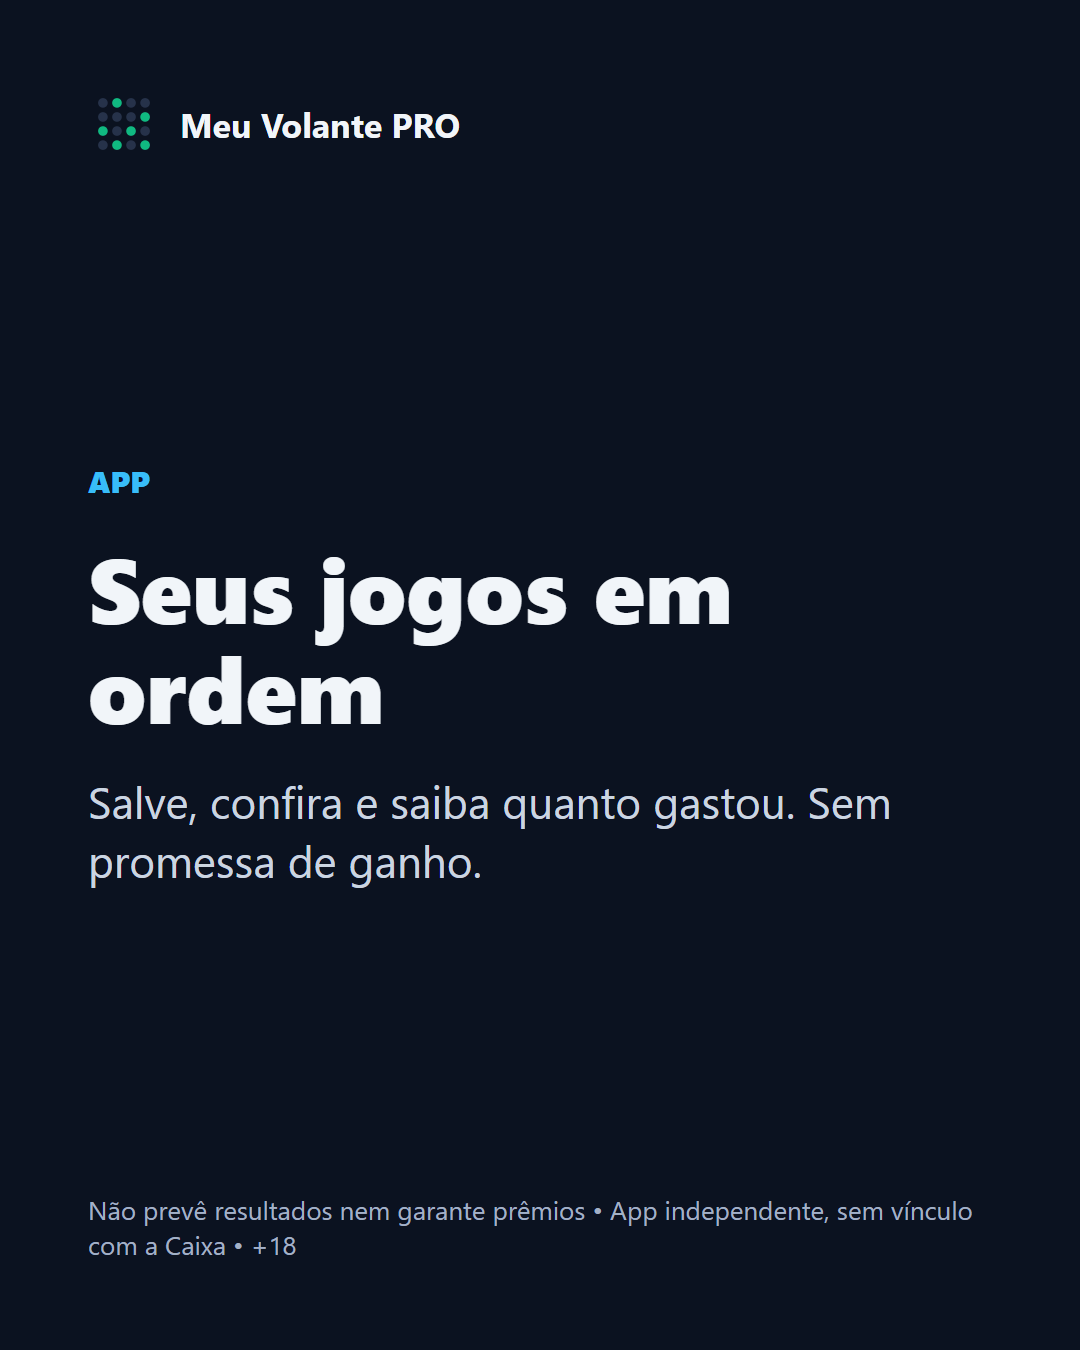
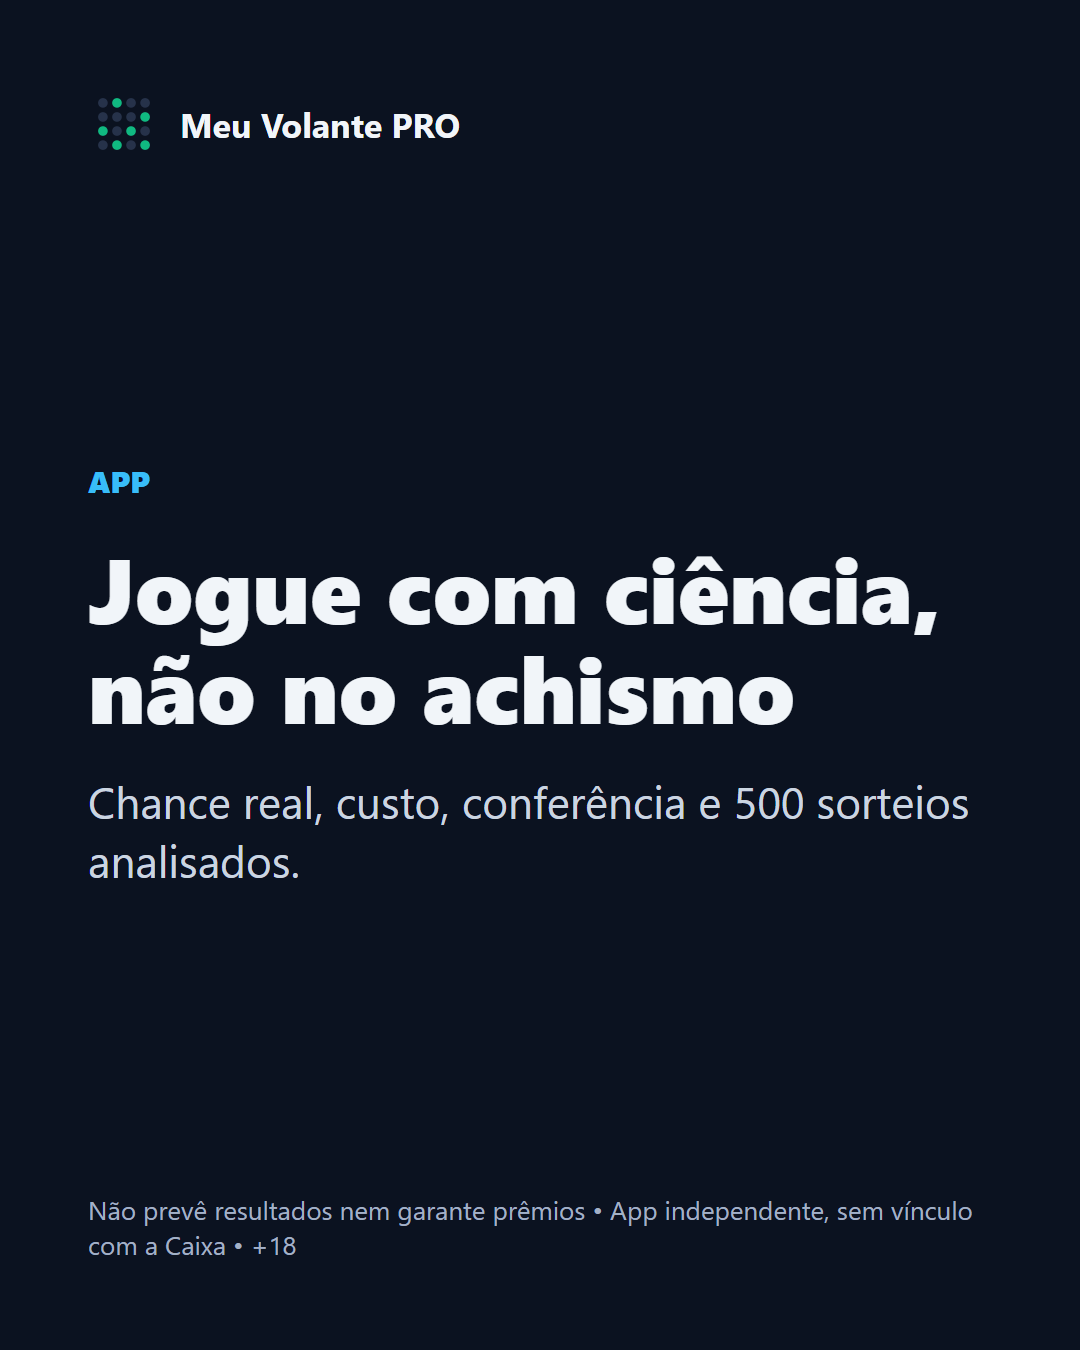
docs(marketing): revisar a estrategia e as publicacoes do Instagram

Changed region(s): [[0.0611, 0.4044, 0.8861, 0.6533]]

diff --git a/marketing/plano-marca-e-instagram.md b/marketing/plano-marca-e-instagram.md
@@ -1,52 +1,71 @@
-# Meu Volante PRO: marca e Instagram
+# Meu Volante PRO: estratégia de marca, Instagram e vendas
 
-## Marca
-- **Promessa:** seus jogos em ordem, com ciência e sem achismo.
-- **Tom:** direto, calmo e em português simples.
-- **Cores:** fundo `#0B1220`, superfície `#141C2B`, ação `#10B981`, texto `#F1F5F9`, roxo `#A855F7` só para a Lotofácil.
-- **Fonte:** Inter.
-- **Logo:** `logo.svg`, um volante com dezenas marcadas.
+## Posicionamento
+**Jogue com ciência, não no achismo.**
+Para quem já joga Mega-Sena e Lotofácil e quer entender cada jogo, controlar o gasto e conferir tudo em um só lugar.
 
-## Regras de toda publicação
-- Sem promessa de ganho, depoimento de ganhador ou prêmio acumulado como chamada.
-- Sem conteúdo voltado a menores. Conta e anúncios só para maiores de 18 anos.
-- Sem vínculo sugerido com a Caixa e sem o logo dela.
-- Toda conta matemática é conferida antes de publicar.
-- Advogado revisa os textos antes da primeira publicação.
+A ciência é o nosso diferencial, com um limite claro: ela mostra fatos e ajuda a decidir melhor, mas não aumenta a chance de nenhuma combinação.
+
+## O que podemos e não podemos dizer
+| Pode | Não pode |
+|---|---|
+| "Veja a chance real do seu jogo" | "Aumente suas chances" |
+| "Evite padrões muito populares, que podem dividir o prêmio" | "Números que mais vão sair" |
+| "Entenda seu jogo com dados de 500 concursos" | "Método comprovado" ou "jogo calibrado para ganhar" |
+| "Controle quanto você gasta" | Depoimento de ganhador ou prêmio como chamada |
 
 ## Perfil
-- **Nome:** Meu Volante PRO
-- **Bio:** Seus jogos da Mega-Sena e Lotofácil em ordem. Gastos, conferência e chance real. Não prevemos resultados. +18.
-- **Destaques:** Como usar | Chances reais | Gastos | Bolão | Jogo responsável
+**Nome:** Meu Volante PRO | Jogue com ciência
 
-## Quatro temas
-1. **Ciência:** probabilidade explicada sem complicar.
-2. **Consciência:** gastos, limite e jogo responsável.
-3. **App:** como salvar, conferir e dividir.
-4. **Mitos:** o que os dados mostram e o que não mostram.
+**Bio:**
+Jogue com ciência, não no achismo 🎯
+Mega-Sena e Lotofácil: chance real, custo, conferência e 500 sorteios analisados.
+Sem promessa de ganho. +18
 
-## 30 dias (3 publicações por semana)
-| Dia | Tema | Formato | Publicação |
-|---|---|---|---|
-| 1 | App | Carrossel | O que é o Meu Volante PRO |
-| 3 | Ciência | Carrossel | Qual a chance real na Mega-Sena: 1 em 50.063.860 |
-| 5 | Consciência | Post | Você sabe quanto gastou com loterias neste ano? |
-| 8 | Mitos | Carrossel | Dezena "atrasada" tem mais chance? Não |
-| 10 | App | Vídeo | Salve um jogo em 15 segundos |
-| 12 | Ciência | Carrossel | Por que 7 dezenas custam 7 apostas |
-| 15 | Consciência | Post | Como definir um limite mensal |
-| 17 | Mitos | Carrossel | Sequência 1-2-3-4-5-6 tem a mesma chance que qualquer outra |
-| 19 | App | Vídeo | Confira seu jogo sem sair de casa |
-| 22 | Ciência | Carrossel | Chance na Lotofácil: 1 em 3.268.760 |
-| 24 | Mitos | Post | Jogar datas não muda a chance, mas pode dividir o prêmio |
-| 26 | App | Carrossel | Como dividir um bolão sem planilha |
-| 29 | Consciência | Post | Jogo é diversão: sinais para dar uma pausa |
+**Destaques:** Comece aqui | Métodos | Chances | Gastos | Bolão | Jogo responsável
 
-## Vendas
-1. **Agora:** grátis, para medir quem salva um jogo e volta depois do sorteio.
-2. **Lista de espera:** para o plano pago, depois que as pessoas estiverem voltando.
-3. **Plano pago, a testar:** carteira ilimitada, sincronização, histórico e bolões. Faixa inicial de R$ 9,90 a R$ 14,90 por mês.
-4. **Nunca cobrar:** conferência, limite de gastos e avisos de jogo responsável.
+**Fixados:** o que é o app; a chance real na Mega-Sena; como usar a Matriz 4x4.
 
-## Mega da Virada
-Datas a confirmar no site da Caixa. O foco é organizar o bolão e controlar o gasto, nunca o valor do prêmio.
+## Temas e proporção
+- **Métodos, 40%:** Matriz 4x4, indicadores, fechamentos e estatísticas. É o carro-chefe.
+- **Mitos, 25%:** o que os dados confirmam e o que derrubam. É o que mais tende a gerar compartilhamento.
+- **App, 20%:** como gerar, salvar, conferir e dividir.
+- **Consciência, 15%:** limite de gastos e jogo responsável. É o que nos diferencia dos perfis de palpite.
+
+## Frequência
+- 3 publicações por semana.
+- Stories nos dias de sorteio: resultado oficial e uma curiosidade, sem chamada para apostar.
+- Publicar também em vídeo curto os posts com melhor desempenho.
+
+## Crescimento, em ordem
+1. **Indicação:** resumo de jogo e de bolão enviado pelo WhatsApp, com o link do app.
+2. **Testadores VIP:** códigos individuais em troca de opinião sincera.
+3. **Conteúdo compartilhável:** mitos e contas de custo.
+4. **Campanha do lançamento:** 3 meses pelo preço de 1, depois de testada com uma assinatura real.
+5. **Mega da Virada:** organizar bolão e controlar gasto, sem usar o valor do prêmio como chamada.
+6. **Anúncios e influenciadores:** só depois de revisão jurídica e com público 18+.
+
+## Funil
+Post → perfil → link → cadastro → gerar e salvar um jogo → ver o resultado → plano.
+
+A oferta aparece ao atingir o limite de 10 jogos e em "Ver planos". Nunca depois de um resultado sem prêmio.
+
+## O que medir por semana
+| Etapa | Medida |
+|---|---|
+| Instagram | Alcance, salvamentos, compartilhamentos e cliques no link |
+| Cadastro | Cliques no link → cadastros |
+| Uso | Cadastros → primeiro jogo salvo; volta depois do sorteio |
+| Venda | Quem vê os planos → quem paga; cancelamento em 30 dias |
+
+As metas serão definidas depois das 2 primeiras semanas, porque ainda não há dados. Para decidir sobre preço, esperar cerca de 200 visualizações dos planos.
+
+## Planos do lançamento
+- **Grátis:** gerar, conferir e salvar até 10 jogos. Conferência e limite de gastos nunca são pagos.
+- **Passe:** 15 dias por R$ 5,90, sem renovação.
+- **Mensal:** R$ 12,90.
+- **Anual:** R$ 97.
+- **Promoção:** 3 meses pelo preço de 1 para os 100 primeiros mensais.
+
+## Calendário
+As artes e legendas estão em `marketing/instagram/`. A ordem está em `instagram-posts.json`.

diff --git a/marketing/instagram/legendas.md b/marketing/instagram/legendas.md
@@ -1,38 +1,38 @@
-## Dia 1: Seus jogos em ordem
-O Meu Volante PRO organiza seus jogos de Mega-Sena e Lotofácil. Não prevê resultados nem garante prêmios. +18.
+## Dia 1: Jogue com ciência, não no achismo
+O Meu Volante PRO ajuda você a entender cada jogo de Mega-Sena e Lotofácil. Não prevê resultados nem garante prêmios. Link na bio. +18
 
 ## Dia 3: 1 em 50.063.860
-São 50.063.860 combinações possíveis de 6 dezenas entre 60. Saber esse número ajuda a decidir com os pés no chão. +18.
+São 50.063.860 combinações possíveis de 6 dezenas entre 60. Saber esse número é o primeiro passo para jogar com consciência. +18
 
-## Dia 5: Quanto você gastou neste ano?
-Jogar deve caber no seu orçamento. Defina um valor que não fará falta. +18.
+## Dia 5: Por que evitar só números até 31
+Muita gente joga datas. Espalhar as dezenas não aumenta sua chance, mas pode reduzir a divisão se você ganhar. +18
 
 ## Dia 8: Dezena atrasada tem mais chance?
-O histórico mostra o que saiu, mas não muda a chance do próximo concurso. +18.
+O histórico mostra o que saiu, mas não muda a chance do próximo concurso. +18
 
-## Dia 10: Salve em um toque
-Nada de bilhete perdido. O app não vende nem registra apostas: faça a sua nos canais oficiais. +18.
+## Dia 10: Como funciona a Matriz 4x4
+Em segundos, você vê se o jogo está concentrado ou espalhado. É uma forma de enxergar o jogo, não de prever o sorteio. +18
 
 ## Dia 12: 7 dezenas = 7 apostas
-Mais dezenas cobrem mais combinações e custam proporcionalmente mais. Veja o custo antes de decidir. +18.
+Um jogo de 7 dezenas custa 7 vezes a aposta simples, e a chance da sena sobe na mesma proporção: 1 em 7.151.980. Confira o preço vigente antes de jogar. +18
 
-## Dia 15: Seu limite, sua regra
-O limite é só seu e não bloqueia nada: serve para você decidir com informação. +18.
+## Dia 15: Quanto você gastou neste ano?
+Jogar deve caber no seu orçamento. Escolha um valor que não fará falta. +18
 
-## Dia 17: 1-2-3-4-5-6 pode sair?
-Parece estranho, mas cada combinação tem a mesma probabilidade. +18.
+## Dia 17: Os 6 indicadores do seu jogo
+Eles descrevem a combinação e mostram se ela está na faixa comum. Nenhum deles muda a chance de sair. +18
 
-## Dia 19: Confira sem sair de casa
-Confirme sempre resultados e prêmios nos canais oficiais da Caixa. App independente, sem vínculo com a Caixa. +18.
+## Dia 19: 1-2-3-4-5-6 pode sair?
+Parece estranho, mas cada combinação tem a mesma probabilidade. A diferença é quantas pessoas escolhem aquele jogo. +18
 
-## Dia 22: 1 em 3.268.760
-São 3.268.760 combinações de 15 dezenas entre 25. É menor que na Mega-Sena, mas ainda é pequena. +18.
+## Dia 22: Fechamento: o que ele cobre
+Um fechamento organiza as dezenas que você escolheu. Ele não garante prêmio e cobre menos que o jogo completo. +18
 
-## Dia 24: Jogar datas muda a chance?
-Muita gente escolhe números até 31 por causa de datas. A sua chance continua igual. +18.
+## Dia 24: Confira sem sair de casa
+Confirme sempre resultados e prêmios nos canais oficiais da Caixa. App independente, sem vínculo com a Caixa. +18
 
-## Dia 26: Bolão sem planilha
-O app calcula o rateio. Ele não recebe dinheiro nem registra apostas. +18.
+## Dia 26: Quentes e frias: o que os dados mostram
+No nosso teste com concursos oficiais, jogar as dezenas quentes ou frias acertou como o esperado pelo acaso. Elas contam a história, não o futuro. +18
 
 ## Dia 29: Hora de dar uma pausa?
-Jogo é diversão. Se deixou de ser, converse com alguém de confiança ou com um profissional. +18.
+Jogo é diversão. Se deixou de ser, converse com alguém de confiança ou com um profissional. +18
